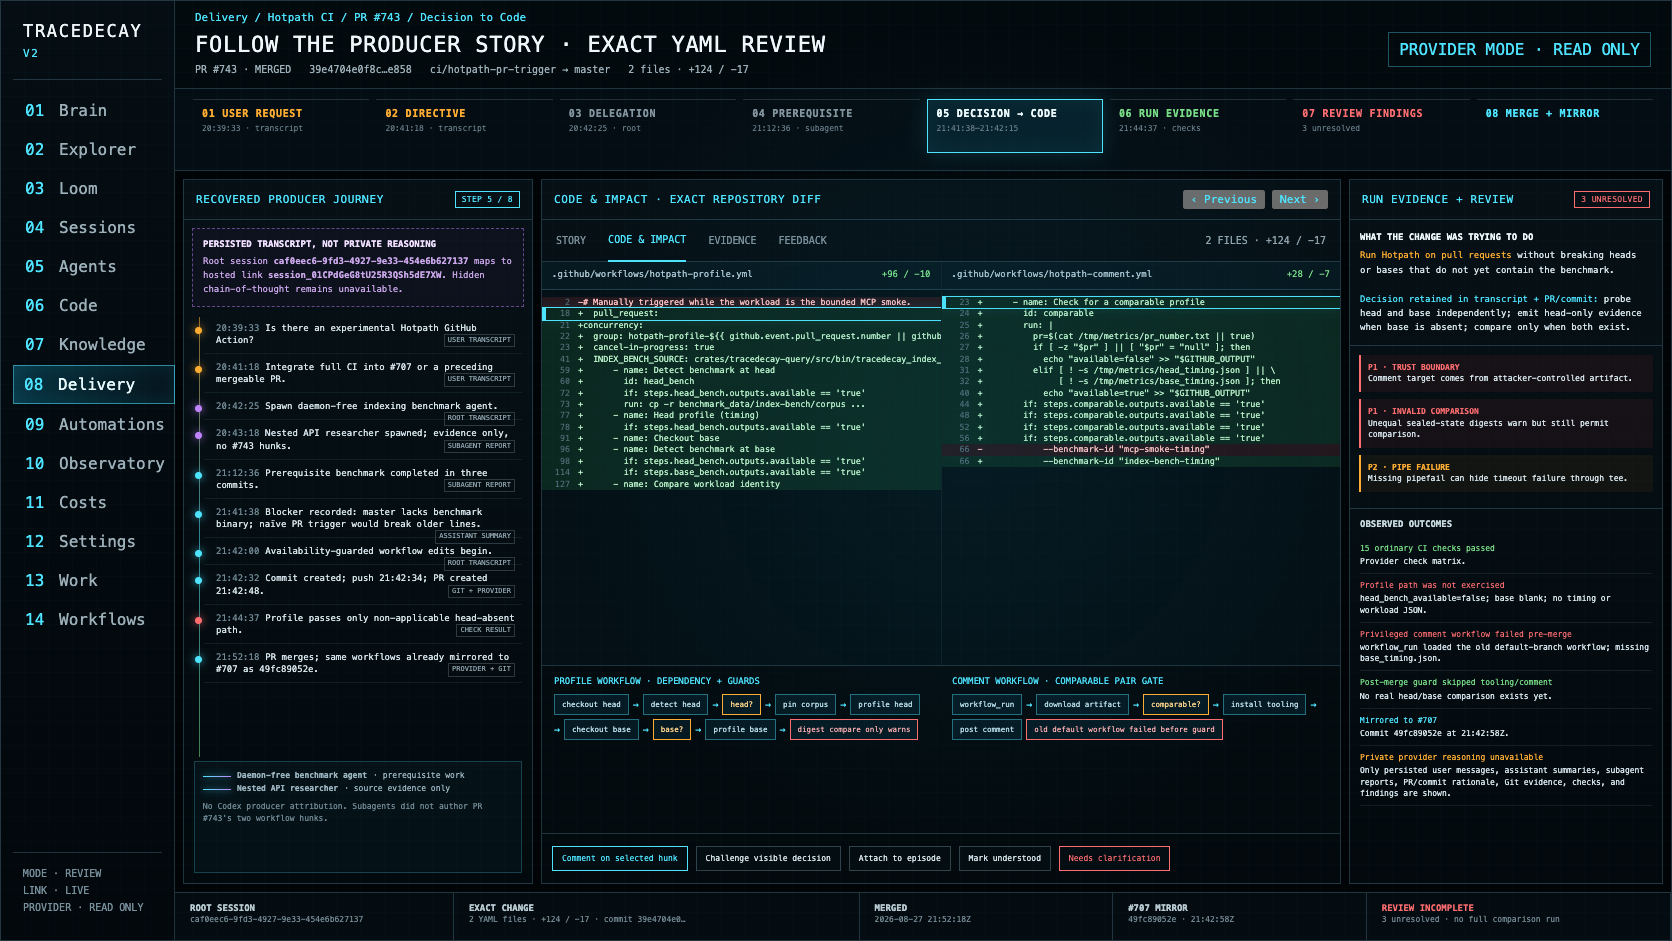
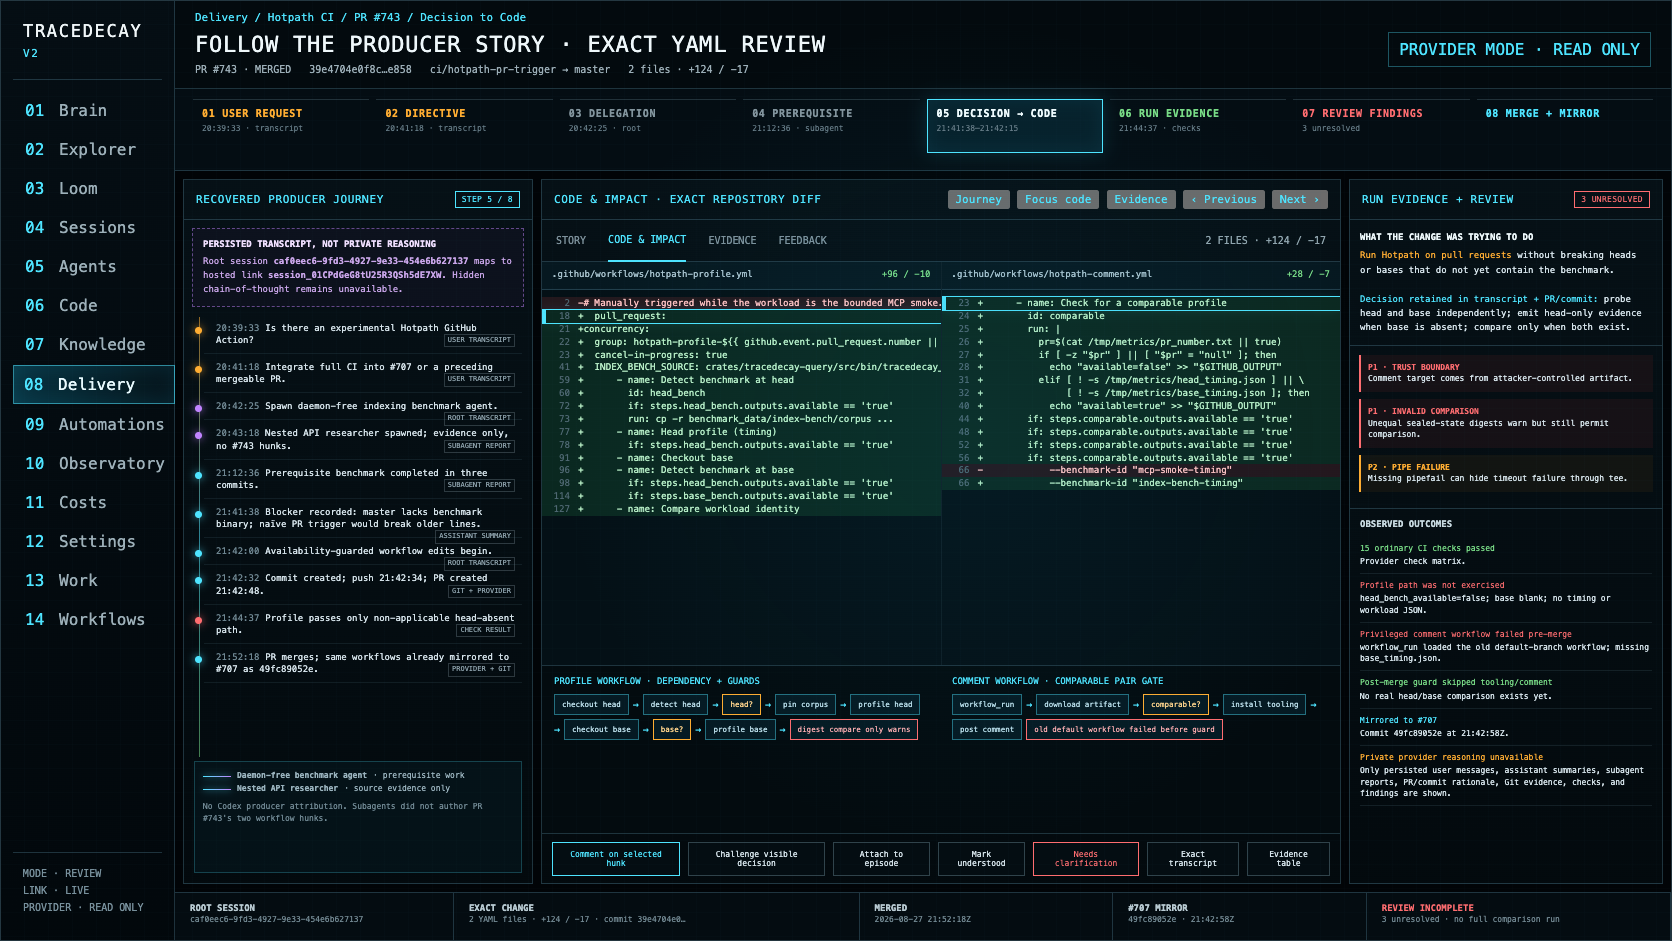
docs(ui): add sourced Decision-to-Code review state

Changed region(s): [[0.311, 0.3082, 0.8086, 0.5547], [0.3421, 0.8937, 0.7775, 0.9245], [0.5598, 0.1849, 0.7153, 0.2465]]

diff --git a/mockups/ui-concept-v2/08-delivery/final/10-decision-to-code-pr743.md b/mockups/ui-concept-v2/08-delivery/final/10-decision-to-code-pr743.md
@@ -1,0 +1,42 @@
+---
+design_status: current
+evidence_class: recovered_session_and_repository_evidence
+source_html: 10-decision-to-code-pr743-source.html
+---
+
+# PR #743 Decision to Code
+
+## User job
+
+Answer, with inspectable sources: what was requested, what persisted evidence records the implementation decision, which exact YAML changed, what the workflows actually exercised, what remains risky, and how the result reached both `master` and PR #707.
+
+## Verified scope
+
+- PR #743: `ci(hotpath): enable pull_request profiling with availability guards`.
+- Commit `39e4704e0f8c24811f851eecc693cd514401e858`; merge commit `5ca74467e577450a64e820c10e6619ac7919bd04`.
+- Branch `ci/hotpath-pr-trigger` to `master`; opened 2026-08-27 21:42:47Z and merged 21:52:18Z.
+- Exactly `.github/workflows/hotpath-profile.yml` (+96/−10) and `.github/workflows/hotpath-comment.yml` (+28/−7), total +124/−17.
+- Recovered Claude Fable 5 root session `caf0eec6-9fd3-4927-9e33-454e6b627137`, linked to hosted session `session_01CPdGeG8tU25R3QSh5dE7XW`.
+- Supporting benchmark agent and nested API researcher are prerequisite/evidence branches; neither authored PR #743's two workflow hunks. No Codex producer attribution is shown.
+
+## Interaction contract
+
+- Eight sourced episodes move from user request to directive, delegation, prerequisite, decision and code, run evidence, review findings, and merge or #707 mirror.
+- Previous and Next, clickable episode nodes, and `Alt+Left` or `Alt+Right` provide step navigation.
+- `Focus code` or the `F` key gives the diff the full review workspace. Journey and Evidence rails collapse independently with controls or `J` and `E`.
+- At narrow or 200% zoom layouts, the panes reflow vertically; code focus hides side context without removing it from the document.
+- The code pane scrolls long exact lines instead of clipping them. Exact transcript and evidence-table fallbacks remain explicit actions.
+- Local review actions attach comments or challenges to visible persisted artifacts. Provider mode remains read-only.
+
+## Source classes and truth boundary
+
+The interface distinguishes user transcript, assistant summary, subagent report, commit or PR rationale, repository diff, GitHub check result, review finding, and unavailable private reasoning. Persisted messages and summaries are not hidden chain-of-thought.
+
+The observed profile run exercised only `head_bench_available=false`; no timing or workload JSON existed, and no full comparison was proven. The pre-merge companion comment run used the old default-branch workflow and failed on missing base timing. Later guards skipped tooling and comment. The three unresolved findings remain visible: attacker-controlled comment target, unequal digests that only warn, and missing pipefail around timeout through `tee`.
+
+## Scale, access, and implementation
+
+- Large histories virtualize semantic episodes and branch groups rather than shrinking text or rendering every turn.
+- Journey and evidence panes are resizable/collapsible; the central diff can claim the entire workspace.
+- Keyboard order, 200% zoom, reduced motion, text/table fallbacks, and non-color source labels are required implementation acceptance criteria.
+- The checked-in HTML is an isolated concept source used to render the deterministic plate. It is not a production UI or runtime integration.

diff --git a/mockups/ui-concept-v2/08-delivery/final/README.md b/mockups/ui-concept-v2/08-delivery/final/README.md
@@ -17,9 +17,9 @@ The images are interaction references, not runtime receipts. Unless a brief says
 | Honest partial or unknown | [07-honest-partial-unknown.png](07-honest-partial-unknown.png) | [07-honest-partial-unknown.md](07-honest-partial-unknown.md) | approved |
 | Exact review coverage | [08-review-coverage-diff-checks.png](08-review-coverage-diff-checks.png) | [08-review-coverage-diff-checks.md](08-review-coverage-diff-checks.md) | approved |
 | Follow the Story review workspace | [09-follow-the-story-review-workspace.png](09-follow-the-story-review-workspace.png) | [09-follow-the-story-review-workspace.md](09-follow-the-story-review-workspace.md) | approved layout, synthetic content |
+| PR #743 Decision to Code | [10-decision-to-code-pr743.png](10-decision-to-code-pr743.png) | [10-decision-to-code-pr743.md](10-decision-to-code-pr743.md) | approved real-session evidence packet |
 
 ## Required follow-up states
 
-- A real-session Decision-to-Code state is pending regeneration from the recovered producer transcript and exact PR #743 evidence.
 - A dense 100+ agent state is pending final visual acceptance before promotion.
 - Rejected and superseded historical images remain outside this folder until replacement acceptance and cleanup.
